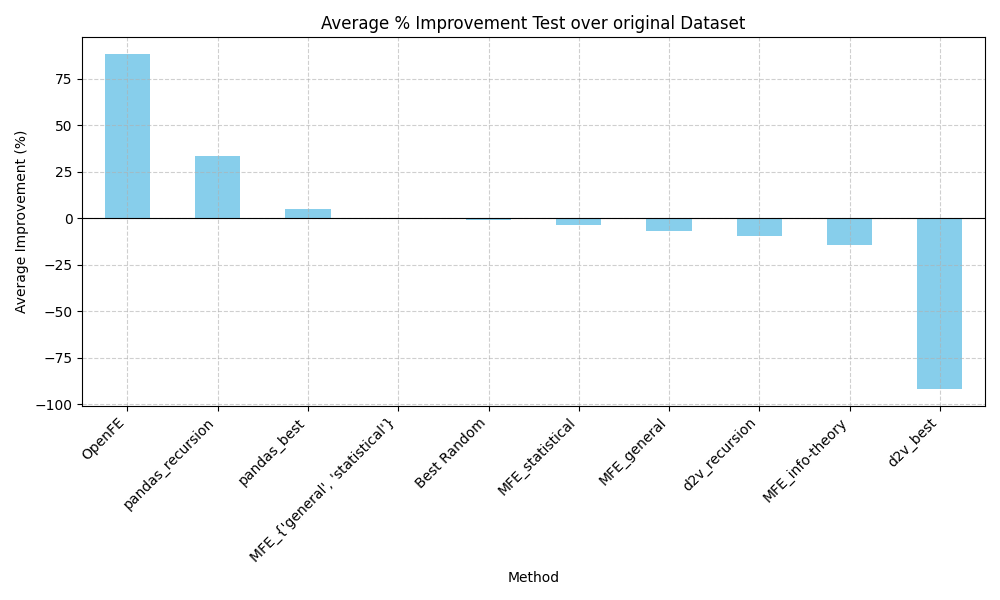
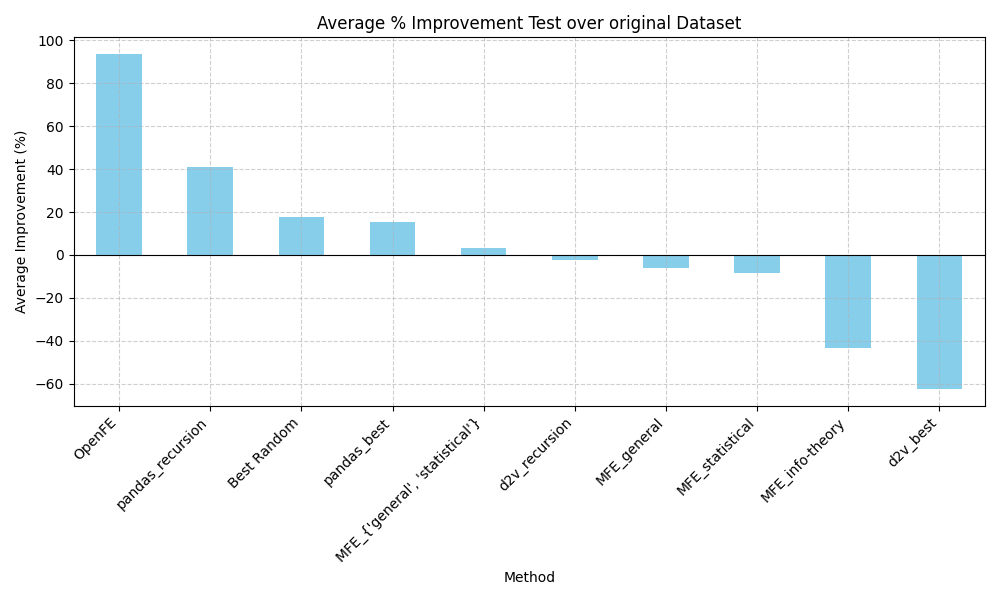
Fix bugs in result analysis

diff --git a/src/Apply_and_Test/analyse_results.py b/src/Apply_and_Test/analyse_results.py
@@ -106,15 +106,14 @@ def analyse_results():
     plt.show()
 
     improvement_test = pd.DataFrame()
-    for method in df_pivot_test.columns:
+    for method in df_pivot_val.columns:
         if method == baseline_col:
             continue
         improvement = (df_pivot_test[baseline_col] - df_pivot_test[method]) / df_pivot_test[baseline_col] * 100
-        df_pivot_test[method] = improvement
+        improvement_test[method] = improvement
 
-    avg_improvement_test = improvement_val.mean().sort_values(ascending=False)
+    avg_improvement_test = improvement_test.mean().sort_values(ascending=False)
 
-    # ----- Plot average improvement -----
     plt.figure(figsize=(10, 6))
     avg_improvement_test.plot(kind="bar", color="skyblue")
     plt.axhline(0, color="black", linewidth=0.8)
